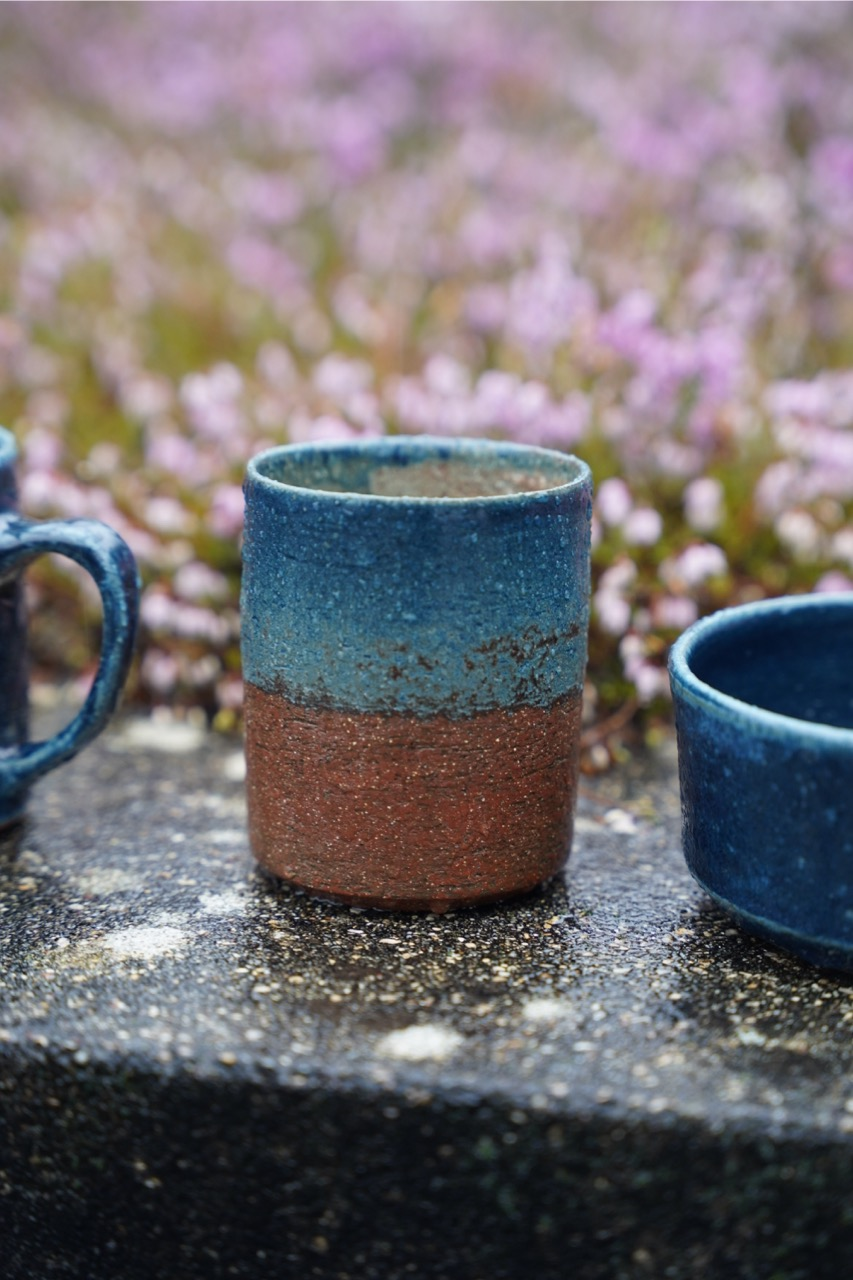
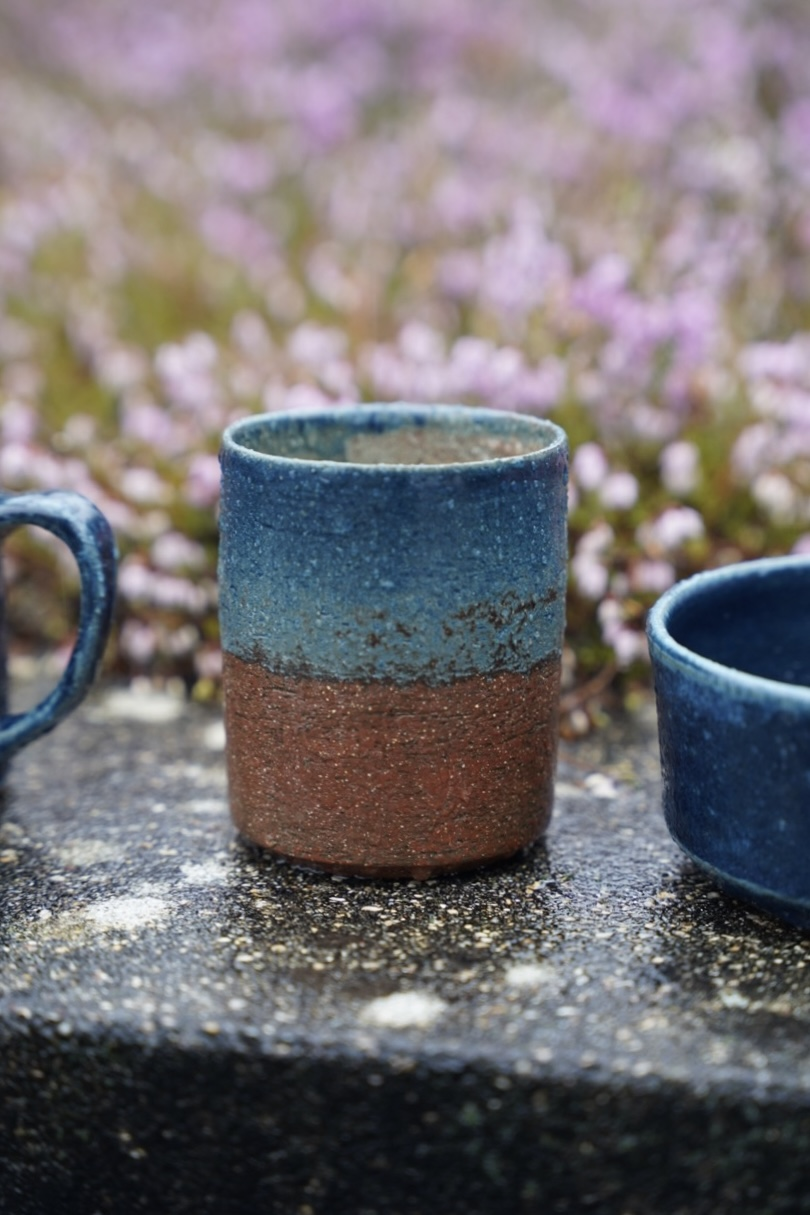
update 2026-02-18 22:37:46

diff --git a/pages/pottery.html b/pages/pottery.html
@@ -40,8 +40,8 @@
             <div
                 class="pot-item"
                 tabindex="0"
-                data-title="Red-Blue Fairness Cup 2026-02"
-                data-desc="Small fairness cup. Coyote Pam's Blue ^6."
+                data-title="Red-Blue Gong Dao Bei 2026-02"
+                data-desc="Small gong dao bei (AKA fairness cup). Coyote Pam's Blue ^6."
                 data-images='["../img/pot00017.jpg","../img/pot00018.jpg","../img/pot00019.jpg","../img/pot00020.jpg"]'
             >
                 <img src="../img/pot00017.jpg" alt="pots" />
